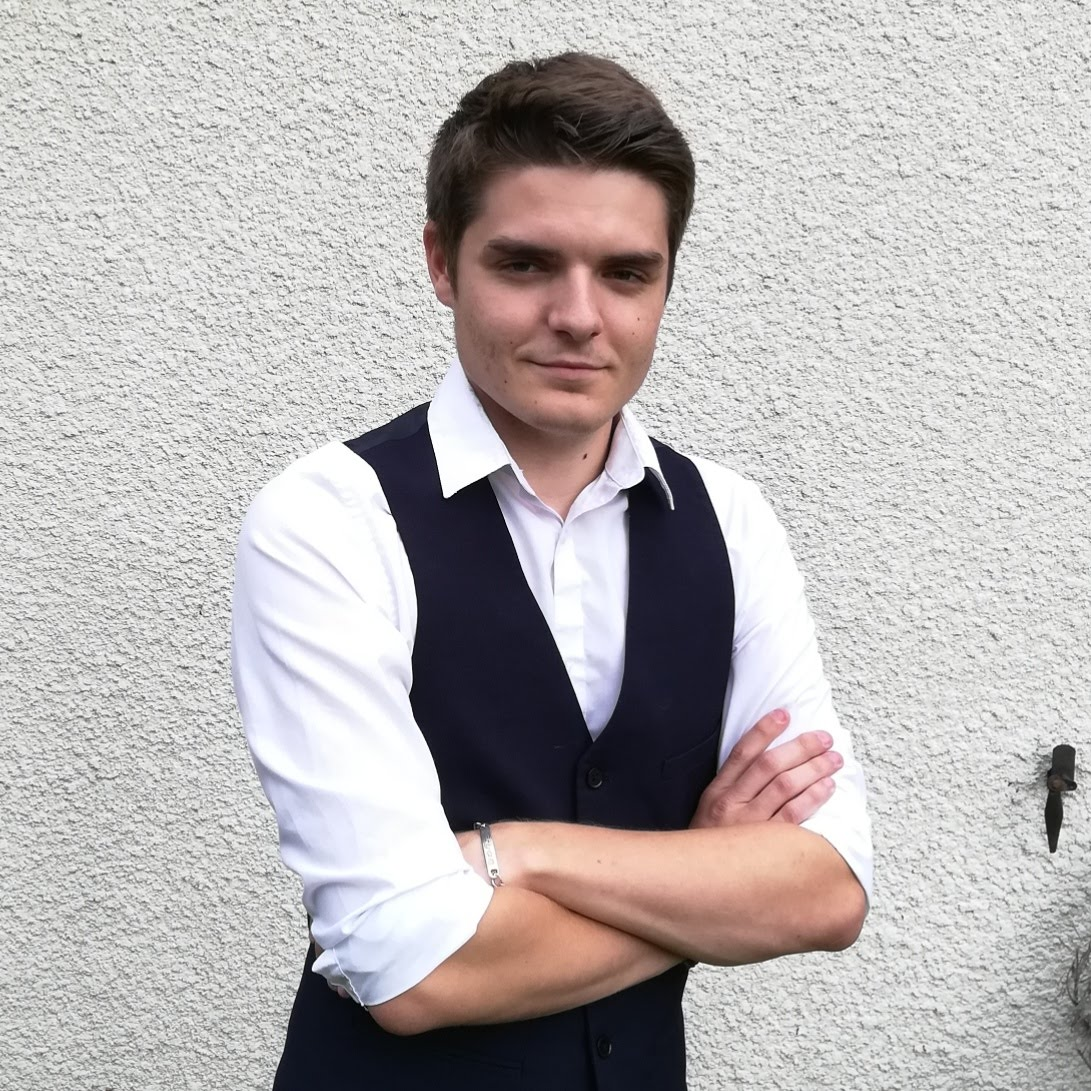
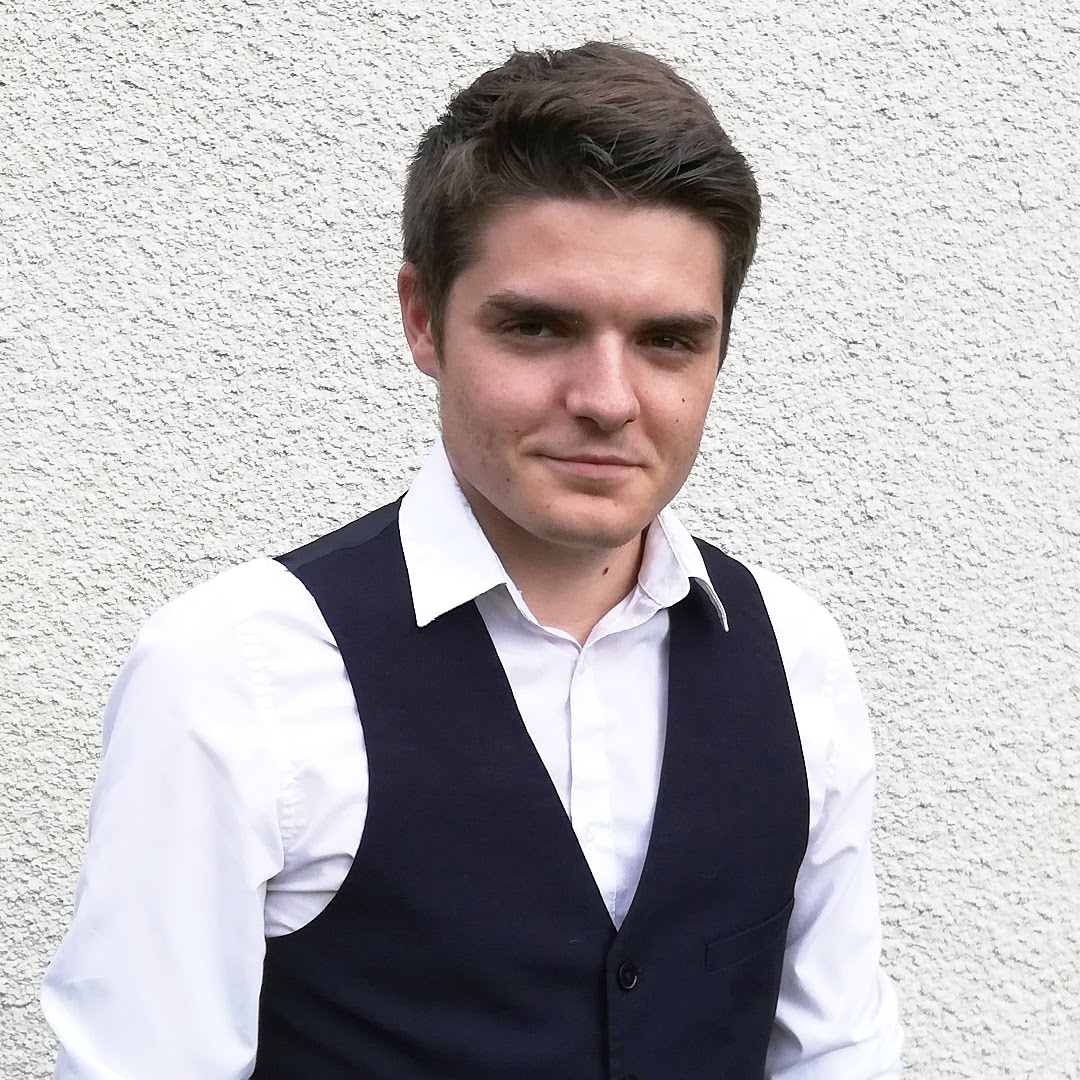
Open graph meta update

diff --git a/src/app/app.component.ts b/src/app/app.component.ts
@@ -12,26 +12,26 @@ export class AppComponent {
     // Your web app's Firebase configuration
 
     // DEV CONFIG
-    // const firebaseConfig = {
-    //   apiKey: "AIzaSyDnk09jgDPuDcJIMdp4XTy2VlciytmLulo",
-    //   authDomain: "weberger-app.firebaseapp.com",
-    //   databaseURL: "https://weberger-app.firebaseio.com",
-    //   projectId: "weberger-app",
-    //   storageBucket: "weberger-app.appspot.com",
-    //   messagingSenderId: "652777520726",
-    //   appId: "1:652777520726:web:0a3b556a5ac055da"
-    // };
+    const firebaseConfig = {
+      apiKey: "AIzaSyDnk09jgDPuDcJIMdp4XTy2VlciytmLulo",
+      authDomain: "weberger-app.firebaseapp.com",
+      databaseURL: "https://weberger-app.firebaseio.com",
+      projectId: "weberger-app",
+      storageBucket: "weberger-app.appspot.com",
+      messagingSenderId: "652777520726",
+      appId: "1:652777520726:web:0a3b556a5ac055da"
+    };
 
     // PROD CONFIG
-    const firebaseConfig = {
-      apiKey: 'AIzaSyB_Wq-_f_tJg3GLrbo655RsBOyX6CfMLe0',
-      authDomain: 'weberger-6f67a.firebaseapp.com',
-      databaseURL: 'https://weberger-6f67a.firebaseio.com',
-      projectId: 'weberger-6f67a',
-      storageBucket: 'weberger-6f67a.appspot.com',
-      messagingSenderId: '386889718939',
-      appId: '1:386889718939:web:837e404cc1c531f2'
-    };
+    // const firebaseConfig = {
+    //   apiKey: 'AIzaSyB_Wq-_f_tJg3GLrbo655RsBOyX6CfMLe0',
+    //   authDomain: 'weberger-6f67a.firebaseapp.com',
+    //   databaseURL: 'https://weberger-6f67a.firebaseio.com',
+    //   projectId: 'weberger-6f67a',
+    //   storageBucket: 'weberger-6f67a.appspot.com',
+    //   messagingSenderId: '386889718939',
+    //   appId: '1:386889718939:web:837e404cc1c531f2'
+    // };
     // Initialize Firebase
     firebase.initializeApp(firebaseConfig);
   }

diff --git a/src/index.html b/src/index.html
@@ -5,12 +5,25 @@
   <title>WeBerger</title>
   <base href="/">
 
-  <meta name="viewport" content="width=device-width, initial-scale=1">
+  <meta name="description" content="WeBerger, Développeur & Consultant Web - Mobile Freelance" />
+  <meta name="keywords" content="web, developpeur, freelance, weberger, developper, developpement, site, programmation, developpeur, hebergeur" />
+  <meta name="copyright" content="All Rights Reserved 2019 - WeBerger" />
+  <meta name="viewport" content="width=device-width, initial-scale=1.0, shrink-to-fit=no">
+  <meta property="og:title" content="WeBerger: Développeur & Consultant Web Freelance" />
+  <meta property="og:title" content="Développeur & Consultant Web/Mobile Freelance" />
+  <meta property="og:type" content="website"/>
+  <meta property="og:url" content="https://www.weberger.net" />
+  <meta property="og:image" content="https://firebasestorage.googleapis.com/v0/b/weberger-6f67a.appspot.com/o/images%2F1.jpg?alt=media&token=c66ad531-47ee-41b8-a5b9-6cb0aed7bb0e" />
 
-  <app-metatags></app-metatags>
-
-  <link rel="icon" type="image/x-icon" href="favicon.ico">
+  <link rel="icon" type="image/x-icon" href="favicon.png">
   <link rel="stylesheet" href="https://use.fontawesome.com/releases/v5.6.3/css/all.css" integrity="sha384-UHRtZLI+pbxtHCWp1t77Bi1L4ZtiqrqD80Kn4Z8NTSRyMA2Fd33n5dQ8lWUE00s/" crossorigin="anonymous">
+  <script async src="https://www.googletagmanager.com/gtag/js?id=UA-135116406-1"></script>
+  <script>
+    window.dataLayer = window.dataLayer || [];
+    function gtag(){dataLayer.push(arguments);}
+    gtag('js', new Date());
+    gtag('config', 'UA-135116406-1');
+  </script>
 </head>
 <body>
   <app-root></app-root>

diff --git a/src/app/admin/admin-skills/admin-skills.component.ts b/src/app/admin/admin-skills/admin-skills.component.ts
@@ -24,7 +24,7 @@ export class AdminSkillsComponent implements OnInit, OnDestroy {
   // skillsSubscription: Subscription;
   // addNewSkill: boolean = false;
 
-  skillSectionDisplay: boolean = false;
+  skillSectionDisplay = false;
 
   adminSkillGroupForm: FormGroup;
   adminSkillForm: FormGroup;
